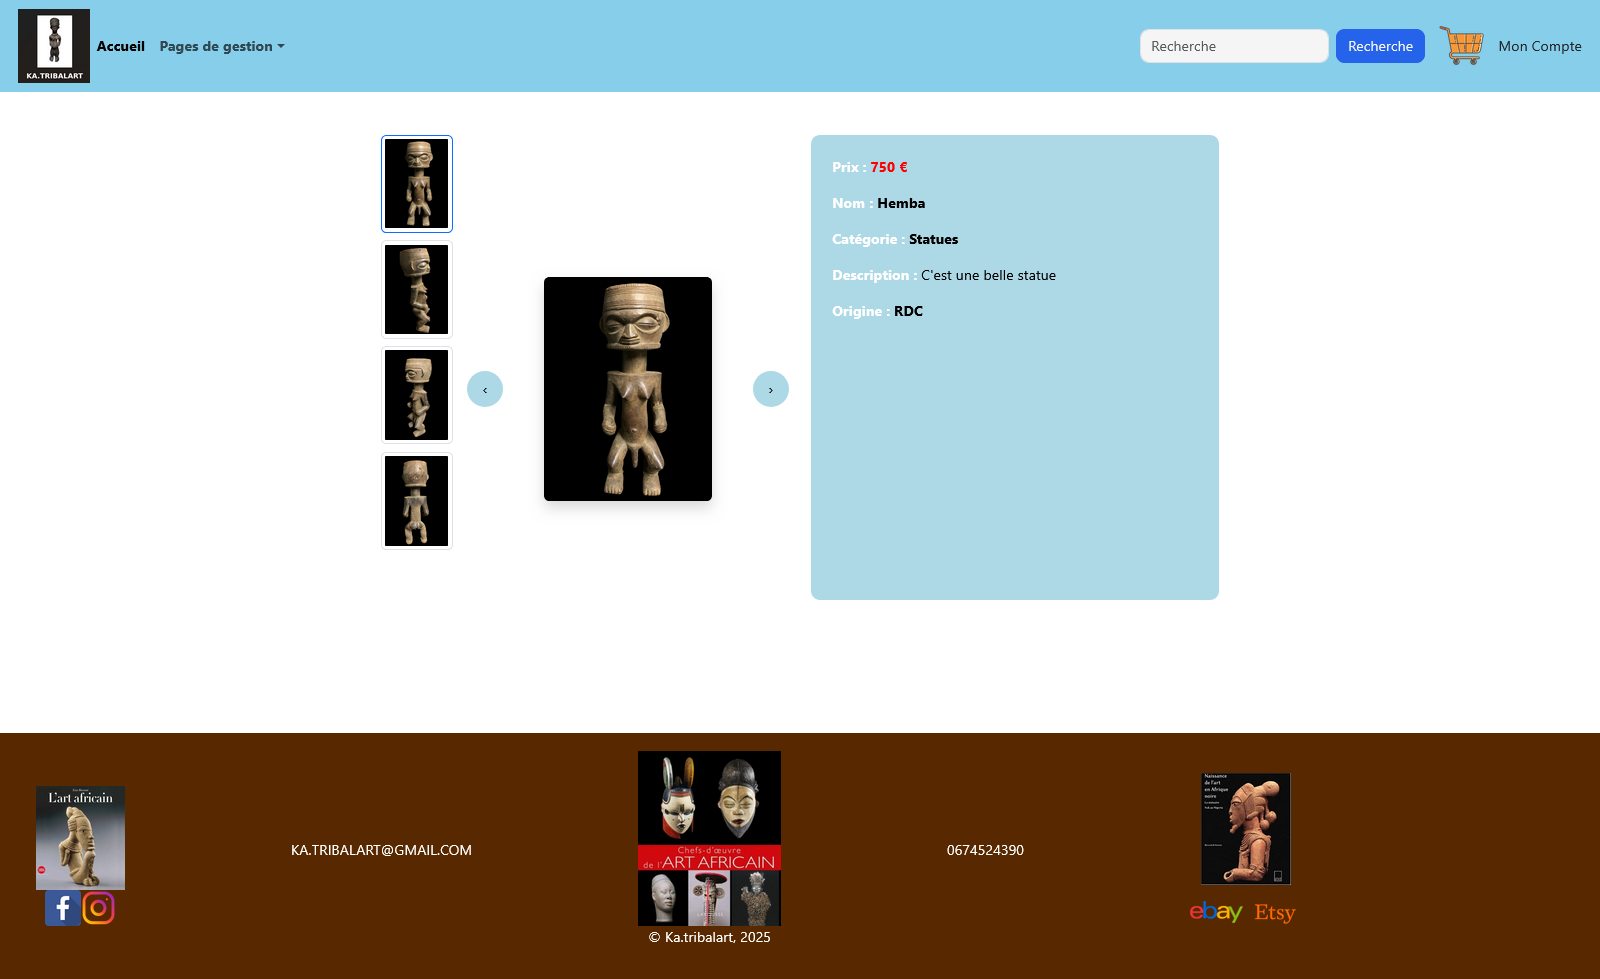
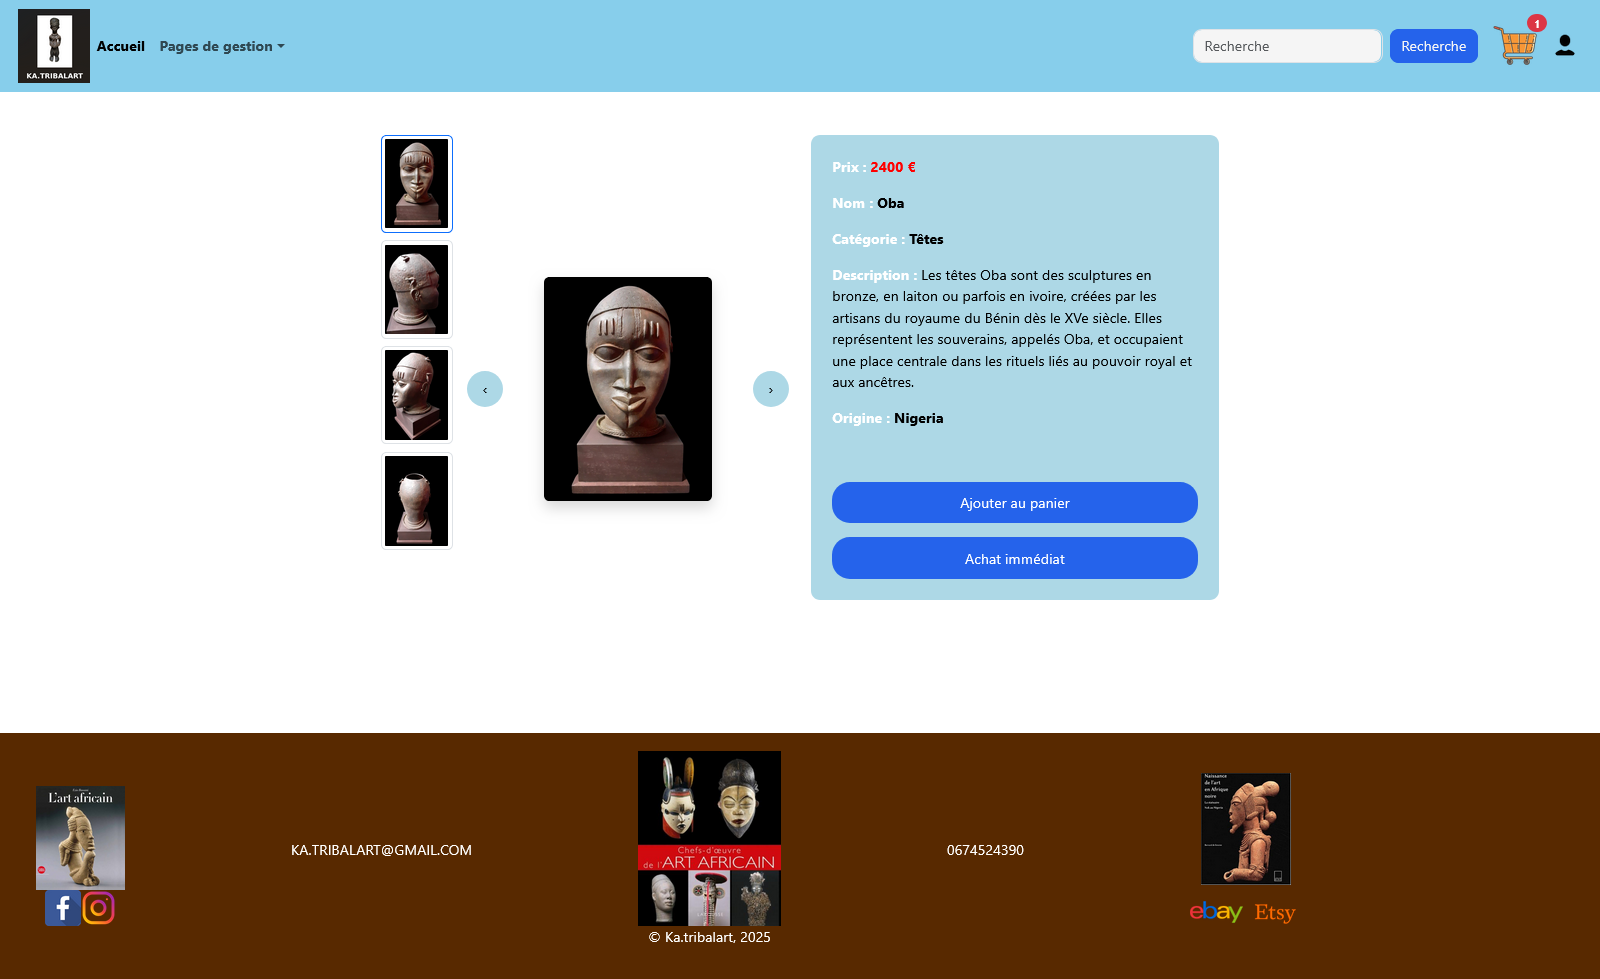
Mise à jour du README et des captures d'écran

diff --git a/README.md b/README.md
@@ -1,4 +1,4 @@
-🎨 KA.TRIBALART - Plateforme E-commerce d'Objets d'Art Africain
+# 🎨 KA.TRIBALART - Plateforme E-commerce d'Objets d'Art Africain
 
 ## 📌 Présentation
 
@@ -23,7 +23,7 @@ Il propose une gestion complète des articles, un système d’authentification 
 
 ## 🚀 Fonctionnalités principales
 
-### Espace Visiteur / Client
+### 👤 Espace Visiteur / Client
 - Navigation intuitive
 - Catalogue avec pagination et recherche
 - Fiche article détaillée (images multiples, description, prix, origine)
@@ -31,14 +31,14 @@ Il propose une gestion complète des articles, un système d’authentification 
 - Passation de commande
 - Simulation de paiement Stripe
 
-### Espace Admin
+### 🛠 Espace Admin
 - CRUD complet sur les articles
 - Gestion des catégories
 - Gestion des commandes
 - Gestion des utilisateurs et rôles
 - Upload d’images
 
-### Authentification
+### 🔐 Authentification
 - Inscription / Connexion
 - Rôles : Admin / Client
 - Protection des routes (middleware)
@@ -60,80 +60,117 @@ Il propose une gestion complète des articles, un système d’authentification 
 
 ## 📁 Structure du projet
 
-### Backend (Node.js)
+### 🟢 Backend (Node.js)
 ```bash
-backend/
-├── controllers/          # article.controller.js, user.controller.js...
-├── models/               # article.model.js, user.model.js...
-├── routes/               # article.route.js...
-├── middlewares/          # authMiddleware.js, adminMiddleware.js
-├── validations/          # article.validation.js...
-├── uploads/              # Images uploadées
-├── db.js
+node_fil_rouge_ka_tribalart/
+├── controllers/             # article.controller.js, user.controller.js...
+├── db/
+│   └── db.js
+├── middlewares/             # authMiddleware.js, adminMiddleware.js, multer.js
+├── models/                  # article.model.js, user.model.js...
+├── routes/                  # article.route.js...
+├── uploads/                 # Images uploadées
+├── validations/             # article.validation.js...
+├── .env
+├── package.json
 └── server.js
 
-### Frontend (React)
+```
+
+### 🔵 Frontend (React)
 ```bash
-frontend/
-├── src/
-│   ├── components/       # Header, Footer, FormulaireArticle...
-│   ├── pages/            # PageAccueil, PageCatalogue, PageArticle...
-│   ├── contexts/         # AuthContext, PanierContext
-│   ├── assets/
-│   └── App.js
+react_fil_rouge_ka_tribalart/
 ├── public/
-│   └── images/
-└── package.json
+│   ├── images/              # Captures d'écran et images du site
+│   └── vite.svg
+├── src/
+│   ├── assets/
+│   ├── components/          # Header, Footer, etc.
+│   ├── contexts/            # AuthContext.jsx, PanierContext.jsx
+│   ├── pages/               # PageAccueil, PageCatalogue, PageArticle...
+│   ├── App.jsx
+│   ├── App.css
+│   ├── index.css
+│   └── main.jsx
+├── index.html
+├── package.json
+├── vite.config.js
+└── README.md
+
+```
 
 ## 📷 Captures d'écran
 
-### Page d'accueil
+### 🏠 Page d'accueil
 ![Accueil](public/images/accueil.png)
 
-### Catalogue des articles
+### 📋 Catalogue des articles
 ![Catalogue](public/images/catalogue.png)
 
-### Fiche Article détaillée
+### 🖼 Fiche Article détaillée
 ![Fiche Article](public/images/article.png)
 
-### Panier & Commandes
-![Panier](public/images/panier.png)
+### 🛒 Gestion des Paniers
+![Gestion des Paniers](public/images/panier.png)
 
-💻 Installation et Lancement
 
-1. Cloner le projet
+---
 
-git clone https://github.com/ALIYOU65/react_fil_ka_tribalart.git
-cd react_fil_ka_tribalart
+## 💻 Installation et Lancement
 
-git clone https://github.com/ALIYOU65/node_fil_ka_tribalart.git
-cd node_fil_ka_tribalart
+### 1. Cloner les projets
 
-2. Backend
+```bash
+# Frontend
+git clone https://github.com/ALIYOU65/react_fil_rouge_ka_tribalart.git
 
-Bashcd backend
+# Backend
+git clone https://github.com/ALIYOU65/node_fil_rouge_ka_tribalart.git
+```
+
+### 2. Installer et lancer le backend
+
+```bash
+cd node_fil_rouge_ka_tribalart
 npm install
-# Créer un .env avec MONGO_URI, JWT_SECRET, STRIPE_SECRET_KEY...
+```
+
+Créer un fichier `.env` :
+
+```env
+MONGO_URI=...
+JWT_SECRET=...
+STRIPE_SECRET_KEY=...
+```
+
+Puis lancer le serveur :
+
+```bash
 npm run dev
+```
 
-3. Frontend
+### 3. Installer et lancer le frontend
 
-Bashcd ../frontend
+```bash
+cd react_fil_rouge_ka_tribalart
 npm install
 npm run dev
+```
 
-📈 Améliorations prévues
+## 📈 Améliorations prévues
 
-Paiement Stripe en production
-Système d’avis et notation
-Recherche avancée + filtres multicritères
-Dashboard Admin avec statistiques
-Déploiement complet (Vercel + Render/Railway)
+- ✅ Paiement Stripe en mode production
+- ⭐ Système d'avis et de notation des articles
+- 🔎 Recherche avancée avec filtres multicritères
+- 📊 Tableau de bord administrateur avec statistiques
+- ☁ Déploiement de l'application (Frontend : Vercel, Backend : Render ou Railway)
 
+---
 
-👨💻 Auteur
-KOUOTOU ALIYOU
+## 👨💻 Auteur
+
+**KOUOTOU ALIYOU**  
 Développeur Full Stack Web & Mobile
 
-📧 kouotou26@gmail.com
-🔗 GitHub
+📧 Email : ali3bakar@gmail.com  
+🔗 [GitHub](https://github.com/ALIYOU65)
